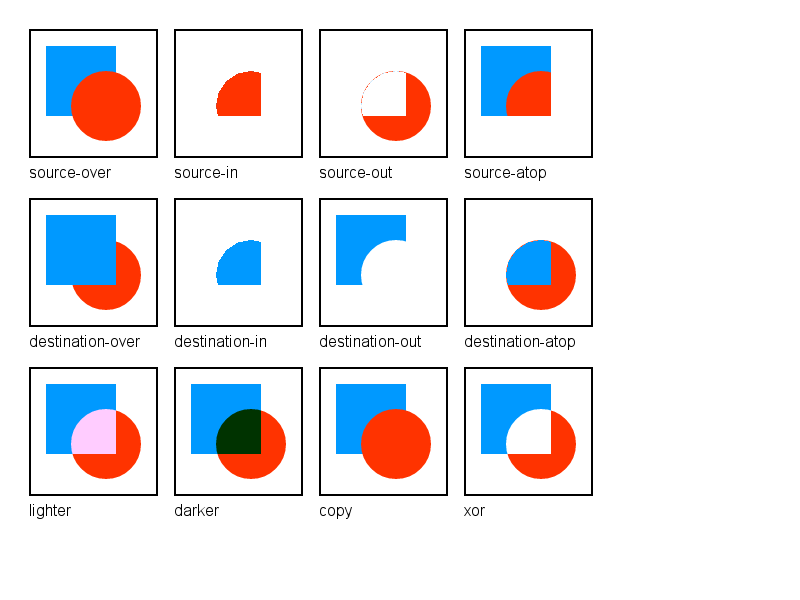
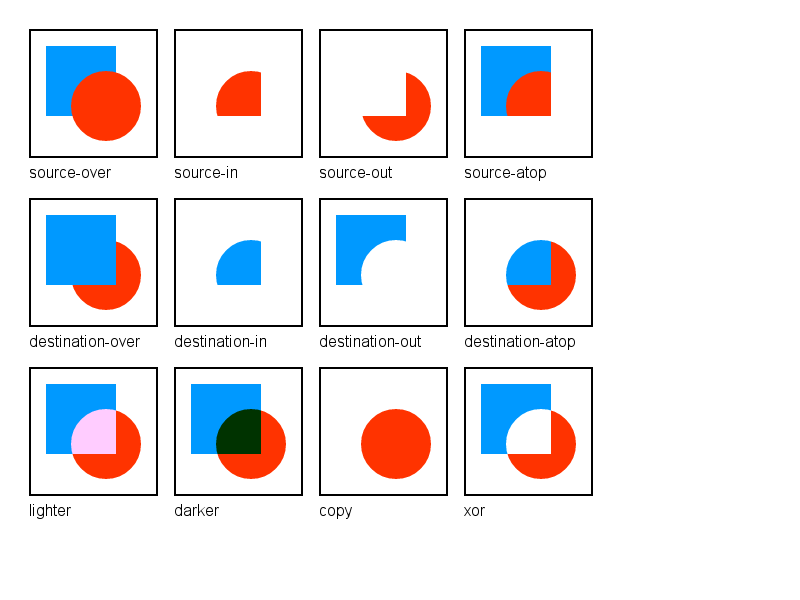
Canvas fill and fillRect with SourceIn, DestinationIn, SourceOut, DestinationAtop and Copy have errors https://bugs.webkit.org/show_bug.cgi?id=66036
Source/WebCore:

These modes cannot be passed straight through to the underlying graphics context as the graphics context
and the HTML5 canvas spec have different interpretations to them. In the graphics context, the compositing
modes are applied just over the area being filled. In the HTML5 spec, the compositing modes are applied over
the entire canvas.

The SourceIn, DestinationIn, SourceOut, DestinationAtop and Copy modes all need some kind of extra action
to just performing the composited fill on the canvas, as they need t he canvas to be cleared outside of the
area being filled.

Previous to this change the Copy mode did not do this clearing at all. The other modes did but if the
transformed path being filled contained anti-aliasing at its edges artifacts were introduced.

With this change, Copy now does a complete erase of the canvas before performing a fill as per normal.
The other modes use a temporary buffer just big enough for the transformed path (in device coordinates).
The fill is first done there in SourceOver mode. Then this is drawn into the canvas context using the
appropriate mode, with any areas outside the draw area being cleared.

Patch by Ben Wells <benwells@chromium.org> on 2011-08-17
Reviewed by James Robinson.

Test: fast/canvas/canvas-composite-transformclip.html

* html/HTMLCanvasElement.h:
* html/canvas/CanvasRenderingContext2D.cpp:
(WebCore::CanvasRenderingContext2D::fill):
(WebCore::CanvasRenderingContext2D::fillRect):
[…]

Changed region(s): [[0.4062, 0.63, 0.5312, 0.78]]

diff --git a/LayoutTests/fast/canvas/canvas-composite-transformclip.html b/LayoutTests/fast/canvas/canvas-composite-transformclip.html
@@ -1,0 +1,120 @@
+<html> 
+  <head> 
+    <title>A canvas globalCompositeOperation example</title> 
+    <meta name="DC.creator" content="Kamiel Martinet, http://www.martinet.nl/"> 
+    <meta name="DC.publisher" content="Mozilla Developer Center, http://developer.mozilla.org"> 
+    <script type="application/x-javascript"> 
+      if (window.layoutTestController)
+	    layoutTestController.dumpAsText(true);
+
+      // This test should show a table of canvas elements. The canvas elements have transforms
+      // applied, and onto the background a blue square is drawn, either fully opaque or with some
+      // transparency.
+
+      // Then clip is added, which with the transform taken into account only allows drawing into
+      // the bottom of the canvas.
+
+      // Then either a green rectangle or a green ellipse is drawn, either fully opaque or with
+      // some transparency. These are drawn with a different compositing mode for every row.
+
+      // In each cell the top half should be same from one row to the next as changes here are
+      // clipped out.
+
+      // In each row the green rectangle or ellipse should be drawn with the appropriate compositing
+      // mode, as per the HTML5 canvas spec.
+
+      // In each cell the drawing should be contained within the cell boundary.
+
+      // These map to the rows of the table
+      var compositeTypes = [
+        'source-over','source-in','source-out','source-atop',
+        'destination-over','destination-in','destination-out','destination-atop',
+        'lighter','darker','copy','xor'
+      ];
+      // These map to the columns of the table
+      var testNames = [
+        'solid rect on solid', 'alpha rect on solid', 'solid rect on alpha',
+        'alpha rect on alpha', 'solid path on solid', 'alpha path on solid',
+        'solid path on alpha', 'alpha path on alpha',
+      ];
+      function createOutputTable() {
+        var tableEl = document.getElementById('outputtable');
+        var row = tableEl.insertRow(-1);
+        var cell = row.insertCell(-1);
+        var label;
+        var canvas;
+        for (var i = 0; i < compositeTypes.length; i++) {
+          row = tableEl.insertRow(-1);
+          for (var j = 0; j < testNames.length; j++) {
+            canvas = document.createElement('canvas');
+            canvas.width = 65;
+            canvas.height = 45;
+            canvas.id = compositeTypes[i] + testNames[j];
+            cell = row.insertCell(-1);
+            cell.appendChild(canvas);
+          }
+        }
+      }
+      function getContext(compositeIndex, testIndex) {
+        var id = compositeTypes[compositeIndex] + testNames[testIndex];
+        var context = document.getElementById(id).getContext('2d');
+        return context;
+      }
+      function setupContext(context, alpha) {
+        context.translate(40, 0);
+        context.rotate(Math.PI / 2);
+        context.scale(0.2, 0.4);
+        context.translate(-1000, -2000);
+        if (alpha) {
+          context.fillStyle = 'rgba(00,100,255,0.5)';
+        } else {
+          context.fillStyle = 'rgba(00,100,255,1)';
+        } 
+        context.fillRect(1020, 2010, 160, 80);
+        context.beginPath();
+        context.moveTo(1100, 1900);
+        context.lineTo(1500, 1900);
+        context.lineTo(1500, 2200);
+        context.lineTo(1100, 2200);
+        context.clip();
+      }
+      function doFill(context, compositeIndex, alpha, path) {
+        context.globalCompositeOperation = compositeTypes[compositeIndex];
+        if (alpha) {
+          context.fillStyle = 'rgba(64,255,0,0.5)';
+        } else {
+          context.fillStyle = 'rgba(64,255,0,1)';
+        } 
+        if (path) {
+          context.beginPath();
+          context.arc(1100, 2000, 50  , 0, Math.PI*2, true);
+          context.fill();
+        } else {
+          context.fillRect(1040, 1950, 120, 100);
+        }
+      }
+      function draw() {
+        createOutputTable();
+        for (var i = 0; i < compositeTypes.length; i++) {
+          for (var j = 0; j < testNames.length; j++) {
+            var context = getContext(i, j);
+            setupContext(context, j % 4 > 1);
+            doFill(context, i, j % 2, j > 3);
+          }
+        }
+      }
+    </script> 
+    <style type="text/css"> 
+      body { margin: 5px; font-family: arial,verdana,helvetica; background: #fff;}
+      canvas { border: 1px solid #999; }
+      td { margin: 0px; padding: 0px; }
+      table { border-collapse: collapse; }
+    </style> 
+  </head> 
+  <body onload="draw();"> 
+    <div> 
+      <table id='outputtable'>
+      </table>
+    </div> 
+  </body> 
+</html>

diff --git a/LayoutTests/fast/canvas/canvas-composite-alpha.html b/LayoutTests/fast/canvas/canvas-composite-alpha.html
@@ -185,21 +185,21 @@
               { source: [255, 0, 255, 191], composition: [191, 127, 255, 255], destination: [0, 255, 255, 127] }
           ],
           [
-              { source: [255, 0, 0, 255], composition: [255, 0, 0, 255], destination: [0, 255, 0, 255] },
               { source: [255, 0, 0, 255], composition: [255, 0, 0, 255], destination: [0, 0, 0, 0] },
-              { source: [255, 0, 0, 255], composition: [255, 0, 0, 255], destination: [0, 255, 0, 1] },
-              { source: [0, 0, 0, 0], composition: [0, 0, 0, 0], destination: [255, 0, 0, 255] },
-              { source: [0, 255, 0, 1], composition: [0, 255, 0, 1], destination: [255, 0, 0, 255] },
-              { source: [0, 0, 0, 0], composition: [0, 0, 0, 0], destination: [0, 255, 0, 255] },
-              { source: [255, 0, 0, 127], composition: [255, 0, 0, 127], destination: [0, 255, 0, 127] },
-              { source: [255, 0, 0, 255], composition: [255, 0, 0, 255], destination: [0, 255, 0, 127] },
-              { source: [255, 0, 0, 127], composition: [255, 0, 0, 127], destination: [0, 255, 0, 255] },
-              { source: [127, 0, 0, 255], composition: [127, 0, 0, 255], destination: [0, 126, 0, 127] },
-              { source: [126, 0, 0, 127], composition: [126, 0, 0, 127], destination: [0, 127, 0, 255] },
-              { source: [255, 0, 0, 127], composition: [255, 0, 0, 127], destination: [255, 0, 0, 63] },
-              { source: [255, 127, 0, 32], composition: [255, 127, 0, 32], destination: [255, 64, 0, 63] },
-              { source: [255, 0, 0, 191], composition: [255, 0, 0, 191], destination: [0, 255, 0, 127] },
-              { source: [255, 0, 255, 191], composition: [255, 0, 255, 191], destination: [0, 255, 255, 127] }
+              { source: [255, 0, 0, 255], composition: [255, 0, 0, 255], destination: [0, 0, 0, 0] },
+              { source: [255, 0, 0, 255], composition: [255, 0, 0, 255], destination: [0, 0, 0, 0] },
+              { source: [0, 0, 0, 0], composition: [0, 0, 0, 0], destination: [0, 0, 0, 0] },
+              { source: [0, 255, 0, 1], composition: [0, 255, 0, 1], destination: [0, 0, 0, 0] },
+              { source: [0, 0, 0, 0], composition: [0, 0, 0, 0], destination: [0, 0, 0, 0] },
+              { source: [255, 0, 0, 127], composition: [255, 0, 0, 127], destination: [0, 0, 0, 0] },
+              { source: [255, 0, 0, 255], composition: [255, 0, 0, 255], destination: [0, 0, 0, 0] },
+              { source: [255, 0, 0, 127], composition: [255, 0, 0, 127], destination: [0, 0, 0, 0] },
+              { source: [127, 0, 0, 255], composition: [127, 0, 0, 255], destination: [0, 0, 0, 0] },
+              { source: [126, 0, 0, 127], composition: [126, 0, 0, 127], destination: [0, 0, 0, 0] },
+              { source: [255, 0, 0, 127], composition: [255, 0, 0, 127], destination: [0, 0, 0, 0] },
+              { source: [255, 127, 0, 32], composition: [255, 127, 0, 32], destination: [0, 0, 0, 0] },
+              { source: [255, 0, 0, 191], composition: [255, 0, 0, 191], destination: [0, 0, 0, 0] },
+              { source: [255, 0, 255, 191], composition: [255, 0, 255, 191], destination: [0, 0, 0, 0] }
           ],
           [
               { source: [255, 0, 0, 255], composition: [0, 0, 0, 0], destination: [0, 255, 0, 255] },

diff --git a/Source/WebCore/html/canvas/CanvasRenderingContext2D.cpp b/Source/WebCore/html/canvas/CanvasRenderingContext2D.cpp
@@ -901,9 +901,12 @@ void CanvasRenderingContext2D::fill()
 
     if (!m_path.isEmpty()) {
         if (shouldDisplayTransparencyElsewhere())
-            displayTransparencyElsewhere<Path>(m_path);
-
-        c->fillPath(m_path);
+            fillAndDisplayTransparencyElsewhere(m_path);
+        else if (state().m_globalComposite == CompositeCopy) {
+            clearCanvas();
+            c->fillPath(m_path);
+        } else
+            c->fillPath(m_path);
         didDraw(m_path.boundingRect());
     }
 
@@ -1008,9 +1011,12 @@ void CanvasRenderingContext2D::fillRect(float x, float y, float width, float hei
     FloatRect rect(x, y, width, height);
 
     if (shouldDisplayTransparencyElsewhere())
-        displayTransparencyElsewhere<IntRect>(enclosingIntRect(rect));
-
-    c->fillRect(rect);
+        fillAndDisplayTransparencyElsewhere(rect);
+    else if (state().m_globalComposite == CompositeCopy) {
+        clearCanvas();
+        c->fillRect(rect);
+    } else
+        c->fillRect(rect);
     didDraw(rect);
 }
 
@@ -1456,6 +1462,17 @@ void CanvasRenderingContext2D::setCompositeOperation(const String& operation)
     setGlobalCompositeOperation(operation);
 }
 
+void CanvasRenderingContext2D::clearCanvas()
+{
+    FloatRect canvasRect(0, 0, canvas()->width(), canvas()->height());
+    GraphicsContext* c = drawingContext();
+
+    c->save();
+    c->setCTM(canvas()->baseTransform());
+    c->clearRect(canvasRect);
+    c->restore();
+}
+
 bool CanvasRenderingContext2D::shouldDisplayTransparencyElsewhere() const
 {
     // See 4.8.11.1.3 Compositing
@@ -1465,18 +1482,48 @@ bool CanvasRenderingContext2D::shouldDisplayTransparencyElsewhere() const
            || state().m_globalComposite == CompositeDestinationIn || state().m_globalComposite == CompositeDestinationAtop;
 }
 
-template<class T> void CanvasRenderingContext2D::displayTransparencyElsewhere(const T& area)
+Path CanvasRenderingContext2D::transformAreaToDevice(const Path& path) const
+{
+    Path transformed(path);
+    transformed.transform(state().m_transform);
+    transformed.transform(canvas()->baseTransform());
+    return transformed;
+}
+
+Path CanvasRenderingContext2D::transformAreaToDevice(const FloatRect& rect) const
+{
+    Path path;
+    path.addRect(rect);
+    return transformAreaToDevice(path);
+}
+
+template<class T> void CanvasRenderingContext2D::fillAndDisplayTransparencyElsewhere(const T& area)
 {
     ASSERT(shouldDisplayTransparencyElsewhere());
 
+    Path path = transformAreaToDevice(area);
+    IntRect bufferRect = enclosingIntRect(path.boundingRect());
+    path.translate(FloatSize(-bufferRect.x(), -bufferRect.y()));
+
+    RenderingMode renderMode = canvas()->buffer()->isAccelerated() ? Accelerated : Unaccelerated;
+    OwnPtr<ImageBuffer> buffer = ImageBuffer::create(bufferRect.size(), ColorSpaceDeviceRGB, renderMode);
+    buffer->context()->setCompositeOperation(CompositeSourceOver);
+    state().m_fillStyle->applyFillColor(buffer->context());
+    buffer->context()->fillPath(path);
+
     FloatRect canvasRect(0, 0, canvas()->width(), canvas()->height());
-    canvasRect = state().m_transform.inverse().mapRect(canvasRect);
+    canvasRect = canvas()->baseTransform().mapRect(canvasRect);
 
     GraphicsContext* c = drawingContext();
     c->save();
-    c->clipOut(area);
-    c->setCompositeOperation(CompositeClear);
-    c->fillRect(canvasRect);
+    c->setCTM(AffineTransform());
+
+    c->save();
+    c->clipOut(bufferRect);
+    c->clearRect(canvasRect);
+    c->restore();
+
+    c->drawImageBuffer(buffer.get(), ColorSpaceDeviceRGB, bufferRect.location(), state().m_globalComposite);
     c->restore();
 }
 

diff --git a/Source/WebCore/platform/graphics/skia/ImageBufferSkia.cpp b/Source/WebCore/platform/graphics/skia/ImageBufferSkia.cpp
@@ -65,6 +65,7 @@ ImageBufferData::ImageBufferData(const IntSize& size)
 ImageBuffer::ImageBuffer(const IntSize& size, ColorSpace, RenderingMode renderingMode, bool& success)
     : m_data(size)
     , m_size(size)
+    , m_accelerateRendering(false)
 {
     OwnPtr<SkCanvas> canvas = adoptPtr(skia::CreateBitmapCanvas(size.width(), size.height(), false));
     if (!canvas) {
@@ -82,6 +83,7 @@ ImageBuffer::ImageBuffer(const IntSize& size, ColorSpace, RenderingMode renderin
     // color. Can we have another way to manage this?
     m_data.m_canvas->drawARGB(0, 0, 0, 0, SkXfermode::kClear_Mode);
     if (renderingMode == Accelerated) {
+        m_accelerateRendering = true;
         GraphicsContext3D* context3D = SharedGraphicsContext3D::create(0);
         if (context3D) {
             m_data.m_drawingBuffer = context3D->createDrawingBuffer(size);

diff --git a/Source/WebCore/html/canvas/CanvasRenderingContext2D.h b/Source/WebCore/html/canvas/CanvasRenderingContext2D.h
@@ -284,8 +284,11 @@ private:
     void clearPathForDashboardBackwardCompatibilityMode();
 #endif
 
+    void clearCanvas();
+    Path transformAreaToDevice(const Path&) const;
+    Path transformAreaToDevice(const FloatRect&) const;
     bool shouldDisplayTransparencyElsewhere() const;
-    template<class T> void displayTransparencyElsewhere(const T& area);
+    template<class T> void fillAndDisplayTransparencyElsewhere(const T& area);
 
     void prepareGradientForDashboard(CanvasGradient* gradient) const;
 

diff --git a/Source/WebCore/html/HTMLCanvasElement.h b/Source/WebCore/html/HTMLCanvasElement.h
@@ -130,6 +130,8 @@ public:
     void makeRenderingResultsAvailable();
     bool hasCreatedImageBuffer() const { return m_hasCreatedImageBuffer; }
 
+    bool shouldAccelerate(const IntSize&) const;
+
 private:
     HTMLCanvasElement(const QualifiedName&, Document*);
 
@@ -138,7 +140,6 @@ private:
 
     void reset();
 
-    bool shouldAccelerate(const IntSize&) const;
     void createImageBuffer() const;
 
     void setSurfaceSize(const IntSize&);
